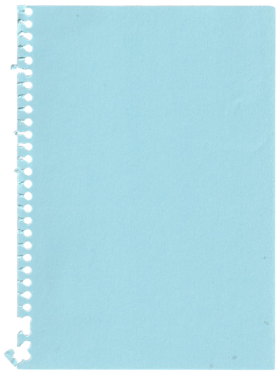
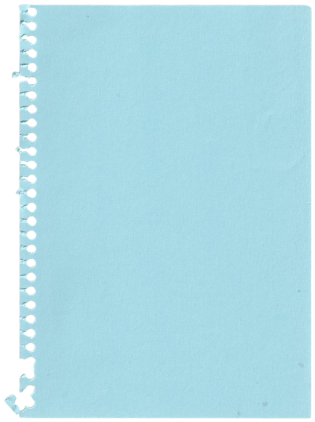
Swap Sources note-paper shapes and fix fit/positioning
Replace the five tier note textures with a new icy blue/grey/teal
set. Notes are bigger and font size tightened so all tiers (including
Google Alerts' 10 sources) fit without a scroll affordance. Art
Industry's heading/body inset pushed down so it reads centered on its
torn scrap instead of crowding the top edge.

diff --git a/src/components/SourcesFolderCover.tsx b/src/components/SourcesFolderCover.tsx
@@ -29,7 +29,7 @@ const TIER_LAYOUT: TierLayout[] = [
     x: "64.0%",
     y: "6.3%",
     w: "22.3%",
-    inset: { t: "26%", r: "8%", b: "8%", l: "8%" },
+    inset: { t: "22%", r: "9%", b: "9%", l: "9%" },
     accent: "#354A89",
   },
   {
@@ -39,7 +39,7 @@ const TIER_LAYOUT: TierLayout[] = [
     x: "0%",
     y: "43.5%",
     w: "27.4%",
-    inset: { t: "14%", r: "10%", b: "10%", l: "10%" },
+    inset: { t: "44%", r: "10%", b: "4%", l: "10%" },
     accent: "#2E6E86",
   },
   {
@@ -49,7 +49,7 @@ const TIER_LAYOUT: TierLayout[] = [
     x: "34.8%",
     y: "64.8%",
     w: "31.6%",
-    inset: { t: "9%", r: "9%", b: "8%", l: "22%" },
+    inset: { t: "10%", r: "9%", b: "9%", l: "10%" },
     accent: "#65322C",
   },
   {
@@ -59,7 +59,7 @@ const TIER_LAYOUT: TierLayout[] = [
     x: "29.3%",
     y: "0%",
     w: "29.6%",
-    inset: { t: "9%", r: "8%", b: "7%", l: "19%" },
+    inset: { t: "8%", r: "8%", b: "7%", l: "20%" },
     accent: "#1F5A6E",
   },
   {
@@ -69,7 +69,7 @@ const TIER_LAYOUT: TierLayout[] = [
     x: "72.2%",
     y: "50.5%",
     w: "27.8%",
-    inset: { t: "12%", r: "10%", b: "10%", l: "10%" },
+    inset: { t: "9%", r: "9%", b: "9%", l: "9%" },
     accent: "#3B6B85",
   },
 ]
@@ -134,7 +134,7 @@ export function SourcesFolderCover({ groupedSources }: SourcesFolderCoverProps) 
             </label>
           </div>
 
-          <div className="sources-cover-board relative w-full max-w-[960px] mx-auto">
+          <div className="sources-cover-board relative w-full max-w-[1100px] mx-auto">
             {TIER_LAYOUT.map((tier, i) => {
               const sources = groupedSources[tier.key] ?? []
               if (sources.length === 0) return null
@@ -163,7 +163,7 @@ export function SourcesFolderCover({ groupedSources }: SourcesFolderCoverProps) 
                     </h2>
                     <p
                       className="font-body text-foreground text-left"
-                      style={{ fontSize: 11.5, lineHeight: 1.55, overflow: "auto" }}
+                      style={{ fontSize: 10.5, lineHeight: 1.45 }}
                     >
                       {sources.map((source, idx) => (
                         <span key={source.id}>
